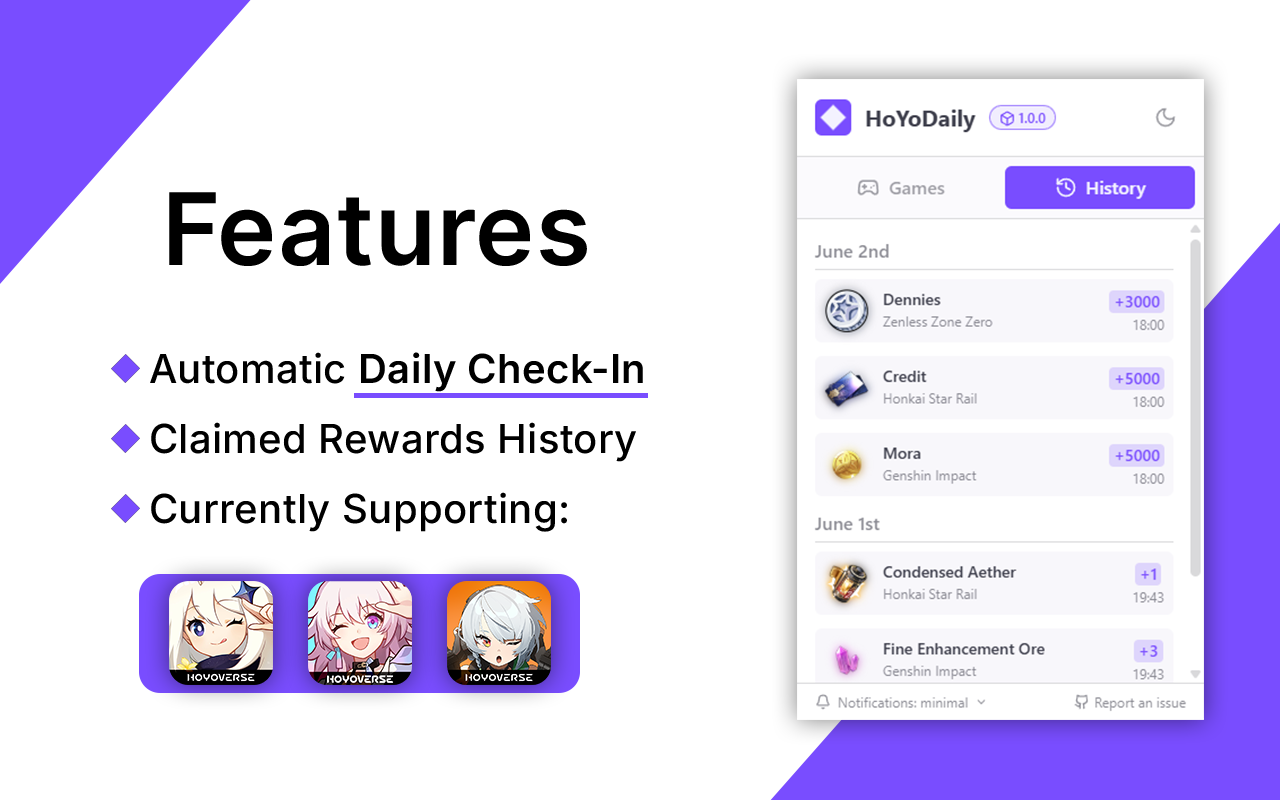
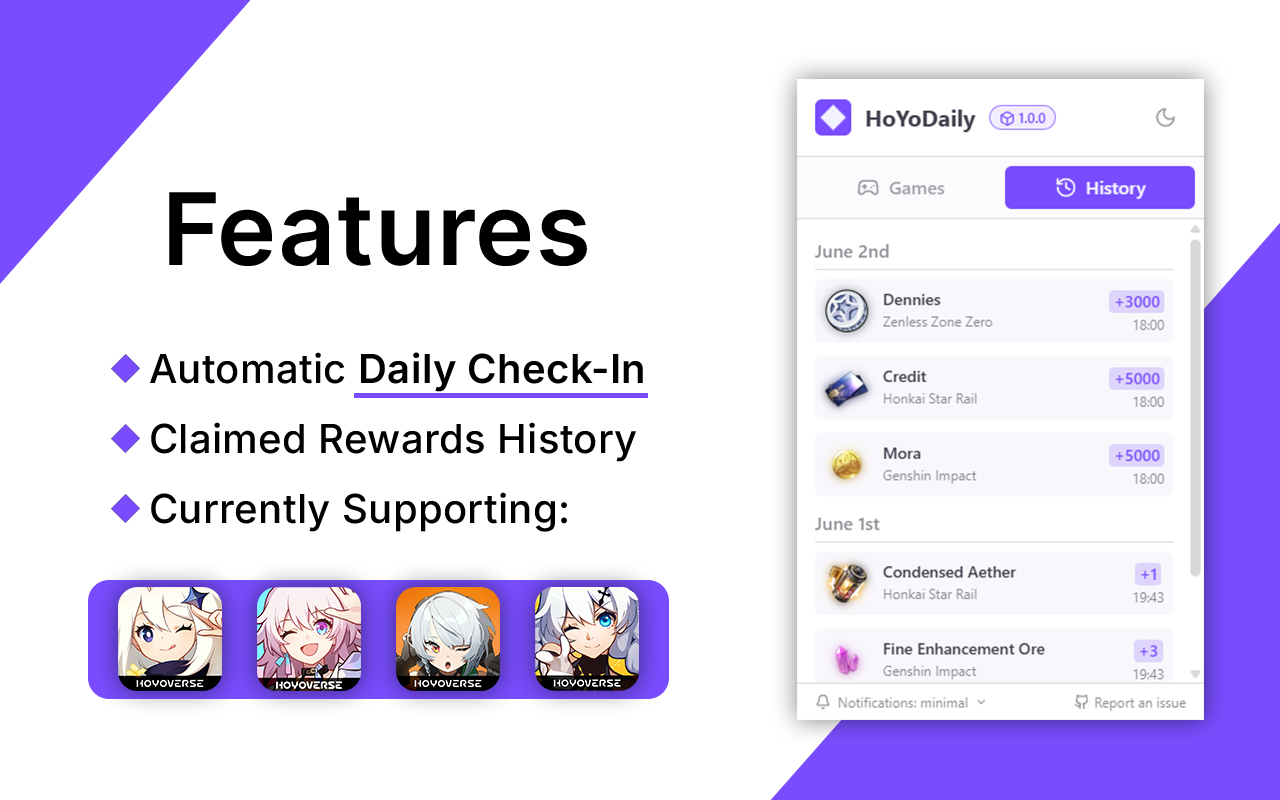
add: new version metadata and minor ui adjustments

Changed region(s): [[0.0625, 0.6875, 0.5312, 0.875]]

diff --git a/src/App.vue b/src/App.vue
@@ -100,14 +100,14 @@ function openGithubIssuesTab(): void {
     <div id="main-tab" role="tabpanel" class="mt-0 p-0">
       <Suspense>
         <template #default>
-          <div class="my-2">
+          <div class="scrollbar scrollbar-thumb-primary scrollbar-w-1 max-h-48.5 overflow-y-scroll">
             <GameOption name="Genshin Impact" :icon="getImageUrl('genshin-icon', 'webp')" />
             <div class="divider px-4" />
-
             <GameOption name="Honkai Star Rail" :icon="getImageUrl('hsr-icon', 'webp')" />
             <div class="divider px-4" />
-
             <GameOption name="Zenless Zone Zero" :icon="getImageUrl('zzz-icon', 'webp')" />
+            <div class="divider px-4" />
+            <GameOption name="Honkai Impact 3rd" :icon="getImageUrl('hi3rd-icon', 'webp')" />
           </div>
         </template>
         <template #fallback>

diff --git a/src/components/GameOption.vue b/src/components/GameOption.vue
@@ -72,7 +72,7 @@ listenMessage(MessageType.CLAIM_ERROR, async (response) => {
 
 <template>
   <div
-    class="flex items-center justify-between px-4 py-3"
+    class="flex items-center justify-between px-4 py-3.5"
     :class="{ 'grayscale-100': !settings.enabled }"
   >
     <div class="flex items-center gap-3">

diff --git a/README.md b/README.md
@@ -9,8 +9,9 @@ _Just set it up and forget about it! 🚀_
 
 ### 🎮 Currently supporting:
 - Genshin Impact
-- Honaki Star Rail
+- Honkai Star Rail
 - Zenless Zone Zero
+- Honkai Impact 3rd
 
 ## 🌐 Supported Browsers
 &nbsp;
